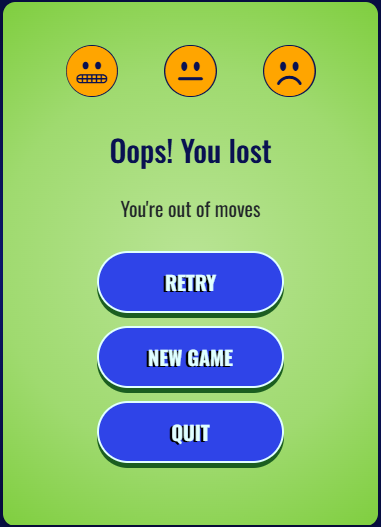
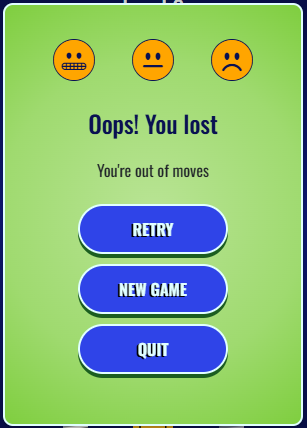
add description for the win/loss modals

diff --git a/README.md b/README.md
@@ -121,9 +121,9 @@ project desription (full)
 - **Game: Game area**
 
   <figure>
-    <img src="docs/site-screenshots/game-area-easy-large-screen.png" width="250px" height="250px">
-    <img src="docs/site-screenshots/game-area-medium-large-screen.png" width="250px" height="250px">
-    <img src="docs/site-screenshots/game-area-hard-large-screen.png" width="250px" height="250px">
+    <img src="docs/site-screenshots/game-area-easy-large-screen.png" width="250px" height="400px">
+    <img src="docs/site-screenshots/game-area-medium-large-screen.png" width="250px" height="400px">
+    <img src="docs/site-screenshots/game-area-hard-large-screen.png" width="250px" height="400px">
     <br>
     <figcaption><strong><em>Game: Help button</em></strong></figcaption>
   </figure>
@@ -132,12 +132,30 @@ project desription (full)
   - **Extra bolt** - Users can click the 'Add Extra bolt' button to activate the small bolt on the bottom right.
 
 
-- **Game: Game win modal**
-- win display
+- **Game: Win modal**
+
+  <figure>
+    <img src="docs/site-screenshots/game-modal-win-large-screen.png" width="300px" height="400px">
+    <br>
+    <figcaption><strong><em>Game: Win modal</em></strong></figcaption>
+  </figure>
+
+  - **Win modal display** - When users successfully stack the nuts in the right colors, the win modal will appear and display points won. 
+  - **Continue button** - The 'Continue' button can be clicked to proceed to the next level. 
 
 
-- **Game: Game loss modal**
-- loss display
+- **Game: Loss modal**
+
+  <figure>
+    <img src="docs/site-screenshots/game-modal-loss-large-screen.png" width="300px" height="400px">
+    <br>
+    <figcaption><strong><em>Game: Loss modal</em></strong></figcaption>
+  </figure>
+
+  - **Loss modal display** - When users run out of moves before they stack the nuts in the right colors, the loss modal will appear. 
+  - **Retry button** - The 'Retry' button can be clicked to restart the level with the same layout of nuts.
+  - **New Game button** - The 'New Game' button can be clicked to generate a new layout of nuts for the failed level.
+  - **Quit button** - The 'Quit' button can be clicked to exit the game and return to the home page.
 
 
 - **Game: Game Button controls**
